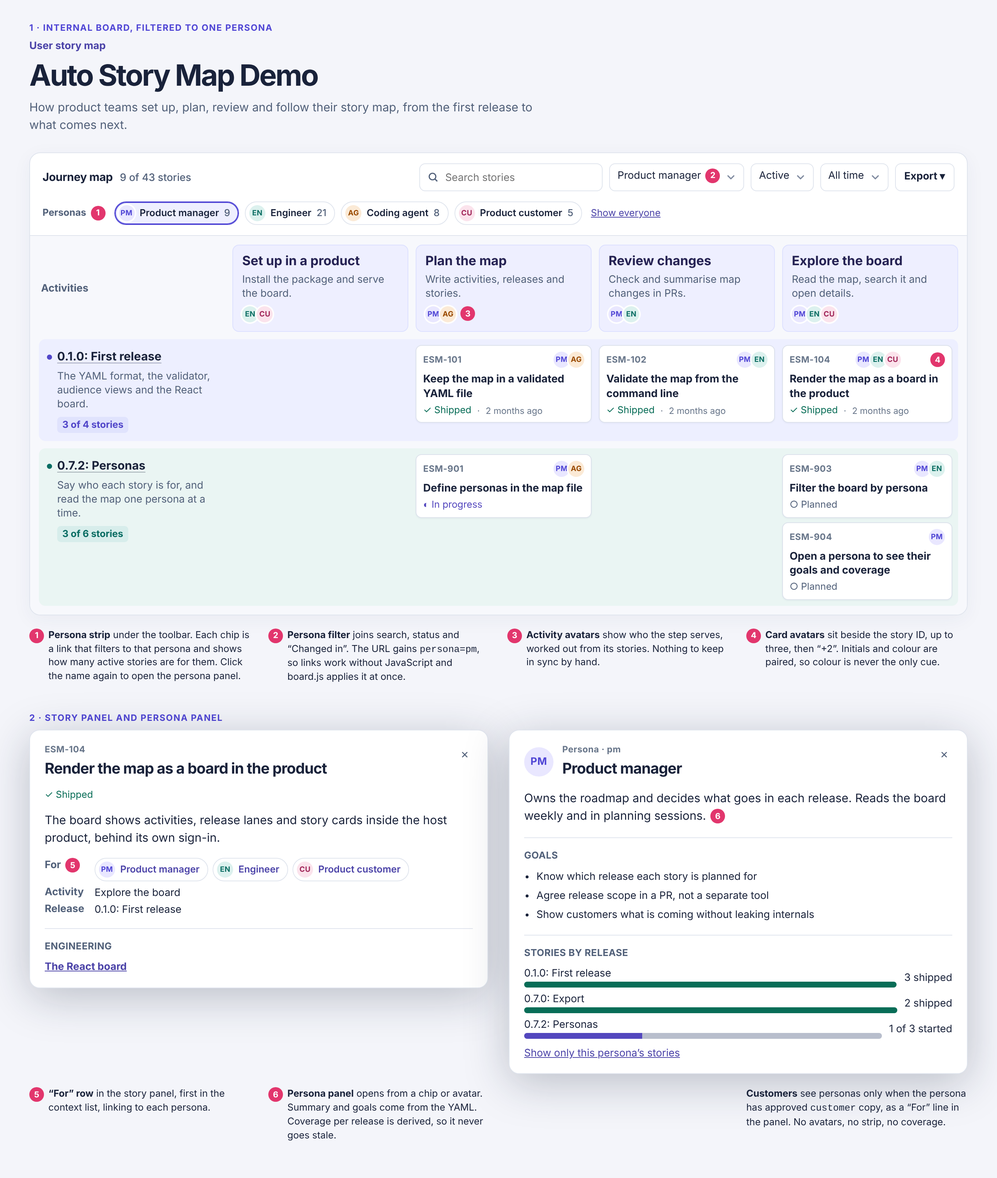
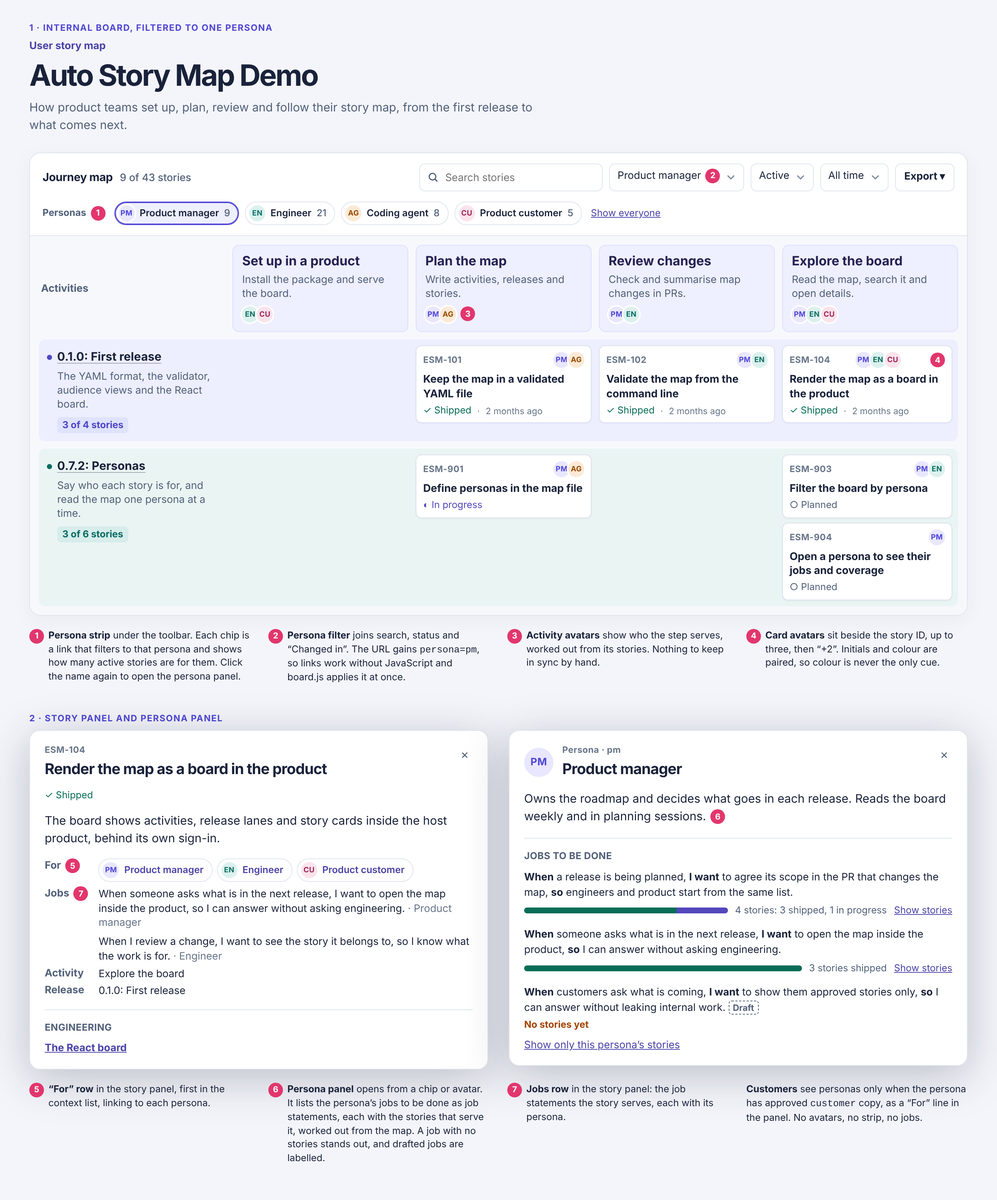
Add structured jobs to be done to the personas plan
Personas gain jobs with IDs and situation, motivation and outcome fields,
and stories name the jobs they serve. The plan adds job checks, a job
filter and per-job coverage in the persona panel, and the mockup and the
0.7.2 stories and release notes follow.

Claude-Session: https://claude.ai/code/session_01Lq2MQToGUNxX2yQmFv46n6

diff --git a/docs/plans/personas-mockup.html b/docs/plans/personas-mockup.html
@@ -51,7 +51,15 @@
   .esm-persona-row { display: flex; flex-wrap: wrap; gap: 6px; }
   .esm-persona-row .esm-persona-chip { min-height: 28px; }
   .esm-persona-head { display: flex; align-items: center; gap: 12px; }
-  .esm-goals { display: grid; gap: 6px; margin: 0; padding-left: 1.2em; line-height: 1.45; }
+  .esm-jobs { display: grid; gap: 14px; margin: 0; padding: 0; list-style: none; }
+  .esm-job { display: grid; gap: 6px; }
+  .esm-job-statement { margin: 0; line-height: 1.45; }
+  .esm-job-statement b { font-weight: 650; }
+  .esm-job-meta { display: flex; flex-wrap: wrap; align-items: center; gap: 4px 10px; color: var(--esm-muted); font-size: .8125rem; }
+  .esm-job-meta .esm-bar { flex: 1 1 120px; }
+  .esm-job-gap { color: var(--esm-status-blocked); font-weight: 650; }
+  .esm-faint { color: var(--esm-faint); }
+  .esm-story-jobs { display: grid; gap: 6px; margin: 0; padding: 0; list-style: none; line-height: 1.4; }
   .esm-persona-releases { display: grid; gap: 6px; margin: 0; padding: 0; list-style: none; }
   .esm-persona-releases li { display: grid; grid-template-columns: 1fr auto; align-items: center; gap: 10px; }
   .esm-bar { display: flex; height: 8px; overflow: hidden; border-radius: 4px; background: var(--esm-hover); }
@@ -124,7 +132,7 @@
             <div class="esm-cell" data-empty></div>
             <div class="esm-cell">
               <button class="esm-card"><span class="esm-card-head"><span class="esm-card-id">ESM-903</span><span class="esm-avatars"><span class="esm-avatar" data-persona="0">PM</span><span class="esm-avatar" data-persona="1">EN</span></span></span><span class="esm-card-title">Filter the board by persona</span><span class="esm-card-meta"><span class="esm-status">○ Planned</span></span></button>
-              <button class="esm-card"><span class="esm-card-head"><span class="esm-card-id">ESM-904</span><span class="esm-avatars"><span class="esm-avatar" data-persona="0">PM</span></span></span><span class="esm-card-title">Open a persona to see their goals and coverage</span><span class="esm-card-meta"><span class="esm-status">○ Planned</span></span></button>
+              <button class="esm-card"><span class="esm-card-head"><span class="esm-card-id">ESM-904</span><span class="esm-avatars"><span class="esm-avatar" data-persona="0">PM</span></span></span><span class="esm-card-title">Open a persona to see their jobs and coverage</span><span class="esm-card-meta"><span class="esm-status">○ Planned</span></span></button>
             </div>
           </div>
         </div>
@@ -154,6 +162,11 @@
             <a class="esm-persona-chip" href="#"><span class="esm-avatar" data-persona="1">EN</span>Engineer</a>
             <a class="esm-persona-chip" href="#"><span class="esm-avatar" data-persona="3">CU</span>Product customer</a>
           </dd>
+          <dt>Jobs<span class="mock-callout">7</span></dt>
+          <dd><ul class="esm-story-jobs">
+            <li>When someone asks what is in the next release, I want to open the map inside the product, so I can answer without asking engineering. <span class="esm-faint">· Product manager</span></li>
+            <li>When I review a change, I want to see the story it belongs to, so I know what the work is for. <span class="esm-faint">· Engineer</span></li>
+          </ul></dd>
           <dt>Activity</dt><dd>Explore the board</dd>
           <dt>Release</dt><dd>0.1.0: First release</dd>
         </dl>
@@ -167,14 +180,20 @@
           <button class="esm-close">✕</button>
         </div>
         <p class="esm-detail-summary">Owns the roadmap and decides what goes in each release. Reads the board weekly and in planning sessions.<span class="mock-callout">6</span></p>
-        <section class="esm-detail-section"><h4>Goals</h4>
-          <ul class="esm-goals"><li>Know which release each story is planned for</li><li>Agree release scope in a PR, not a separate tool</li><li>Show customers what is coming without leaking internals</li></ul>
-        </section>
-        <section class="esm-detail-section"><h4>Stories by release</h4>
-          <ul class="esm-persona-releases">
-            <li><span class="esm-release-label">0.1.0: First release<span class="esm-bar"><span style="width:100%;background:var(--esm-status-shipped)"></span></span></span><span>3 shipped</span></li>
-            <li><span class="esm-release-label">0.7.0: Export<span class="esm-bar"><span style="width:100%;background:var(--esm-status-shipped)"></span></span></span><span>2 shipped</span></li>
-            <li><span class="esm-release-label">0.7.2: Personas<span class="esm-bar"><span style="width:33%;background:var(--esm-status-in-progress)"></span><span style="width:67%;background:var(--esm-status-planned);opacity:.35"></span></span></span><span>1 of 3 started</span></li>
+        <section class="esm-detail-section"><h4>Jobs to be done</h4>
+          <ul class="esm-jobs">
+            <li class="esm-job">
+              <p class="esm-job-statement"><b>When</b> a release is being planned, <b>I want</b> to agree its scope in the PR that changes the map, <b>so</b> engineers and product start from the same list.</p>
+              <span class="esm-job-meta"><span class="esm-bar"><span style="width:75%;background:var(--esm-status-shipped)"></span><span style="width:25%;background:var(--esm-status-in-progress)"></span></span><span>4 stories: 3 shipped, 1 in progress</span><a href="#">Show stories</a></span>
+            </li>
+            <li class="esm-job">
+              <p class="esm-job-statement"><b>When</b> someone asks what is in the next release, <b>I want</b> to open the map inside the product, <b>so</b> I can answer without asking engineering.</p>
+              <span class="esm-job-meta"><span class="esm-bar"><span style="width:100%;background:var(--esm-status-shipped)"></span></span><span>3 stories shipped</span><a href="#">Show stories</a></span>
+            </li>
+            <li class="esm-job">
+              <p class="esm-job-statement"><b>When</b> customers ask what is coming, <b>I want</b> to show them approved stories only, <b>so</b> I can answer without leaking internal work. <span class="esm-draft">Draft</span></p>
+              <span class="esm-job-meta"><span class="esm-job-gap">No stories yet</span></span>
+            </li>
           </ul>
           <p class="esm-release-hidden"><a href="#">Show only this persona’s stories</a></p>
         </section>
@@ -183,9 +202,9 @@
   </div>
   <ol class="mock-legend">
     <li><span class="mock-callout">5</span><span><strong>“For” row</strong> in the story panel, first in the context list, linking to each persona.</span></li>
-    <li><span class="mock-callout">6</span><span><strong>Persona panel</strong> opens from a chip or avatar. Summary and goals come from the YAML. Coverage per release is derived, so it never goes stale.</span></li>
-    <li></li>
-    <li><span><strong>Customers</strong> see personas only when the persona has approved <code>customer</code> copy, as a “For” line in the panel. No avatars, no strip, no coverage.</span></li>
+    <li><span class="mock-callout">6</span><span><strong>Persona panel</strong> opens from a chip or avatar. It lists the persona’s jobs to be done as job statements, each with the stories that serve it, worked out from the map. A job with no stories stands out, and drafted jobs are labelled.</span></li>
+    <li><span class="mock-callout">7</span><span><strong>Jobs row</strong> in the story panel: the job statements the story serves, each with its persona.</span></li>
+    <li><span><strong>Customers</strong> see personas only when the persona has approved <code>customer</code> copy, as a “For” line in the panel. No avatars, no strip, no jobs.</span></li>
   </ol>
 </div>
 

diff --git a/docs/plans/personas.md b/docs/plans/personas.md
@@ -2,18 +2,18 @@
 
 Status: proposed. The stories are ESM-901 to ESM-906, in the **0.7.2: Personas** release of the map. The release's notes and expected impact are in the map.
 
-A story map answers “what do we build, in what order”. It does not yet say **who each story is for**. Personas add that: the map file names the people the product serves, each story says which of them it helps, and the board lets viewers read the map one persona at a time.
+A story map answers “what do we build, in what order”. It does not yet say **who each story is for**, or **which need it meets**. Personas and their jobs to be done add that: the map file names the people the product serves and the jobs each of them is trying to get done, each story says which jobs it serves, and the board lets viewers read the map one persona at a time and see which jobs have no stories.
 
 Items are numbered in the order they should be built, and each section uses the same number:
 
 1. [Define personas in the map file](#1-define-personas-in-the-map-file) · ESM-901
 2. [Show who a story is for](#2-show-who-a-story-is-for) · ESM-902
 3. [Filter the board by persona](#3-filter-the-board-by-persona) · ESM-903
-4. [Open a persona to see goals and coverage](#4-open-a-persona-to-see-goals-and-coverage) · ESM-904
+4. [Open a persona to see jobs and coverage](#4-open-a-persona-to-see-jobs-and-coverage) · ESM-904
 5. [Share approved personas with customers](#5-share-approved-personas-with-customers) · ESM-905
 6. [Include personas in exports](#6-include-personas-in-exports) · ESM-906
 
-All stories are internal. Item 5 changes what customers can see, but only for personas whose customer copy has been approved, as for stories today.
+All stories are internal. Item 5 changes what customers can see, but only for personas whose customer copy has been approved, as for stories today. Jobs are internal only.
 
 ## UI mockup
 
@@ -28,7 +28,8 @@ What it shows:
 3. **Activity avatars**: who each step of the journey serves, derived from the stories under it.
 4. **Card avatars** beside the story ID: up to three, then “+N”.
 5. **“For” row** in the story panel, first in the context list.
-6. **Persona panel**: summary and goals from the YAML, and coverage per release worked out from the stories.
+6. **Persona panel**: the summary and the persona's jobs to be done, each with the stories that serve it, worked out from the map. A job with no stories stands out, and drafted jobs are labelled **Draft**.
+7. **Jobs row** in the story panel: the job statements the story serves, each with its persona.
 
 When a persona is chosen, releases with no matching stories are hidden, as the other filters do now. A rejected alternative was to dim non-matching cards instead of hiding them. It keeps the shape of the map, but on large maps the persona's stories are hard to find among the dimmed ones. It could come back as a “Highlight” option later.
 
@@ -39,9 +40,20 @@ personas:
   - id: pm
     title: Product manager
     summary: Owns the roadmap and decides what goes in each release.
-    goals:
-      - Know which release each story is planned for
-      - Agree release scope in a PR, not a separate tool
+    jobs:
+      - id: plan-release
+        situation: a release is being planned
+        motivation: to agree its scope in the PR that changes the map
+        outcome: engineers and product start from the same list
+      - id: answer-whats-next
+        situation: someone asks what is in the next release
+        motivation: to open the map inside the product
+        outcome: I can answer without asking engineering
+      - id: share-roadmap
+        situation: customers ask what is coming
+        motivation: to show them approved stories only
+        outcome: I can answer without leaking internal work
+        draft: true       # drafted by an agent; only a person removes it
     customer:            # optional, approved wording only
       title: Product teams
 stories:
@@ -49,11 +61,18 @@ stories:
     title: Render the map as a board in the product
     activity: explore
     release: v0-1
-    personas: [pm, engineer, customer]
+    personas: [customer]
+    jobs: [answer-whats-next, review-in-context]   # review-in-context is an Engineer job
 ```
 
-- `personas` on the map is optional, up to 12 entries. Each has the usual `id`, `title`, `summary` and `customer`, plus optional `goals` (up to 5, each up to 200 characters).
-- `personas` on a story is optional: a list of persona IDs, up to 4, in order of importance. The first is the primary persona.
+ESM-104's personas resolve to Product manager and Engineer, from its jobs, and Product customer, from `personas`.
+
+The board reads each job as a job statement: “**When** a release is being planned, **I want** to agree its scope in the PR that changes the map, **so** engineers and product start from the same list.”
+
+- `personas` on the map is optional, up to 12 entries. Each has the usual `id`, `title`, `summary` and `customer`, plus optional `jobs`.
+- `jobs` on a persona is optional, up to 8 entries. Each job has an `id`, unique across the map, and three required fields of up to 200 characters: `situation` (“When …”), `motivation` (“I want …”) and `outcome` (“so …”). Write each without its lead word, which the board adds. `draft: true` marks a job an agent drafted and nobody has confirmed. Only a person removes it, as for release impact.
+- `jobs` on a story is optional: up to 4 job IDs, in order of importance. A story's personas are the owners of its jobs plus any listed in its own `personas`, so a story that names its jobs does not need to repeat their personas.
+- `personas` on a story is optional: up to 4 persona IDs, for a story that helps a persona but no single job of theirs. The first persona, from either list, is the primary one.
 - Initials come from the title (“Product manager” → PM), and the colour from the persona's position in the list, so neither is stored. A six-colour palette is enough for 12 personas, because initials and colour together tell them apart.
 - Activities and releases get no `personas` field. Activity avatars are derived, so there is nothing to keep in sync.
 
@@ -65,15 +84,19 @@ stories:
 | B. Can a story have several personas | Yes, up to 4, first is primary | One persona per story. Simpler, but forces a choice for shared stories such as search |
 | C. Untagged stories | Allowed. The filter has no “Untagged” option at first, and validate warns only when the map has personas and more than half of the active stories are untagged | Make `personas` required once the map defines any. Too strict for existing maps |
 | D. What a persona filter keeps | Stories tagged with any chosen persona. Several personas can be chosen, like statuses | Primary persona only |
-| E. Persona fields | `id`, `title`, `summary`, `goals`, `customer` | Add `pains`, `quote` or an image. Keep it small until teams ask; images also raise hosting and privacy questions |
+| E. Persona fields | `id`, `title`, `summary`, `jobs`, `customer` | Add `pains`, `quote` or an image. Keep it small until teams ask; images also raise hosting and privacy questions |
 | F. Customer view | Show approved personas as a “For” line in the story panel only | No personas for customers at all. Also fine; item 5 can be dropped without affecting the rest |
 | G. Release | Decided: a new **0.7.2: Personas** release, after the export work | — |
+| H. Jobs to be done | Decided: structured jobs on each persona, with IDs that stories reference, in place of free-text goals | Job statements as free text, which cannot be checked. Jobs as their own list, shared between personas: more to maintain and show, for a case that is rare until teams ask |
+| I. Who writes jobs | Agents may draft jobs from the product's docs, issues and research, marked `draft: true`. A person confirms each by removing `draft` | Only people write jobs. Safer, but slows the first map down |
 
 ### Assumptions to confirm
 
 - **Search matches persona titles** for internal viewers, so searching “agent” finds stories for the Coding agent persona.
 - **Persona counts on chips** count active stories only, like the release counts, and ignore the other filters so the numbers do not jump as you filter.
-- **Removing a persona** that stories still use is an error, like removing an activity. Renaming one keeps its ID.
+- **Removing a persona or job** that stories still use is an error, like removing an activity. Renaming one keeps its ID.
+- **Moving a job to another persona** keeps its ID, so stories follow it without an edit.
+- **Jobs are not shown on cards**, only in the story and persona panels, so cards stay short.
 - **No change to the status history**. A persona change counts as an edit to the story for “last updated”, because the history already compares whole stories.
 
 ## Suggested order
@@ -83,7 +106,7 @@ stories:
 | 1 | Define personas in the map file | M | — |
 | 2 | Show who a story is for | M | 1 |
 | 3 | Filter the board by persona | S | 2 |
-| 4 | Open a persona to see goals and coverage | S | 2 |
+| 4 | Open a persona to see jobs and coverage | M | 2 |
 | 6 | Include personas in exports | S | 1 |
 | 5 | Share approved personas with customers | S | 2 |
 
@@ -95,28 +118,33 @@ Items 1 and 2 can share a PR if the first is small. Every PR follows the reposit
 
 **Change.**
 
-- `src/schema.ts`: add the `persona` object and the optional `personas` list to the map, and `personas` to the story. The lenient schema drops them for older maps, as it does for other fields.
-- Cross-reference checks: duplicate persona IDs, unknown persona IDs on a story, the same persona twice on a story, and a customer-facing persona used on a story that has no customer copy (allowed, but the persona is not shown).
-- Warnings: a persona no story uses, and the untagged-stories rule from decision C.
+- `src/schema.ts`: add the `persona` and `job` objects and the optional `personas` list to the map, and `personas` and `jobs` to the story. The lenient schema drops them for older maps, as it does for other fields.
+- Cross-reference checks: duplicate persona IDs, duplicate job IDs across the map, unknown persona or job IDs on a story, the same persona or job twice on a story, and a customer-facing persona used on a story that has no customer copy (allowed, but the persona is not shown).
+- Warnings:
+  - a persona no story uses, and the untagged-stories rule from decision C;
+  - a job no active story serves, such as “Job share-roadmap (Product manager) has no stories”;
+  - an active story tagged with a persona that has jobs, but serving none of them: it may not match a known need;
+  - a drafted job whose stories have shipped, as for drafted impact.
+- A shared helper resolves a story's personas from its `jobs` and `personas`, so the view, filter and exports agree.
 - `story-map.schema.json` is rebuilt, so editors complete persona IDs.
-- `src/diff.ts`: report added, removed and renamed personas, and persona changes on stories, such as “ESM-104: for Product manager (was Engineer)”. Customer-facing persona copy is called out like other customer copy.
-- `src/init.ts` and `templates/`: the starter map gets one example persona.
-- Dogfood: add personas to this repository's map (Product manager, Engineer, Coding agent, Product customer) and tag existing stories.
+- `src/diff.ts`: report added, removed and renamed personas and jobs, changed job statements, and persona and job changes on stories, such as “ESM-104: serves answer-whats-next (was plan-release)”. Customer-facing persona copy is called out like other customer copy.
+- `src/init.ts` and `templates/`: the starter map gets one example persona with one job.
+- Dogfood: add personas and their jobs to this repository's map (Product manager, Engineer, Coding agent, Product customer) and tag existing stories with the jobs they serve.
 
-**Docs.** A **Personas** section in `docs/story-map.md`, a row in [Where an edit belongs](../story-map.md#where-an-edit-belongs), and a step in the [first-run workflow](../story-map.md#populate-the-first-map): the agent drafts personas from the host product's roles, sign-in roles and docs, keeps them internal, and asks a person to confirm them. `AGENTS.md` gets one sentence: tag new stories with existing persona IDs, and never invent a persona without saying so in the PR.
+**Docs.** A **Personas** section in `docs/story-map.md`, a row in [Where an edit belongs](../story-map.md#where-an-edit-belongs), and a step in the [first-run workflow](../story-map.md#populate-the-first-map): the agent drafts personas from the host product's roles, sign-in roles and docs, and their jobs from docs, issues and research, marks each job `draft: true`, keeps them internal, and asks a person to confirm them. The section explains job statements and how to write each field. `AGENTS.md` gets one sentence: tag new stories with the existing jobs they serve, never invent a persona or job without marking it `draft: true` and saying so in the PR, and never remove `draft` yourself.
 
-**Tests.** Valid and invalid persona maps, the warnings, the diff lines, and a property test that every persona reference survives `parseStoryMap` round trips.
+**Tests.** Valid and invalid persona and job maps, each warning, the diff lines, the resolved personas of a story with jobs, and a property test that every persona and job reference survives `parseStoryMap` round trips.
 
 ## 2. Show who a story is for
 
 **Change.**
 
-- `src/view.ts`: the internal view gains `personas: PersonaLabel[]` (id, title, summary, goals, initials, colour index) and each story card gains `personas: string[]`.
+- `src/view.ts`: the internal view gains `personas: PersonaLabel[]` (id, title, summary, jobs, initials, colour index) and each story card gains `personas: string[]`, resolved from its jobs and personas, and `jobs: string[]`.
 - `src/react.tsx`:
   - `PersonaAvatar` and `PersonaAvatars` components, with the persona title as accessible text (“For Product manager and Coding agent”), so screen readers do not read initials.
   - Card avatars in a new `esm-card-head` row beside the ID.
   - Activity avatars from the union of the personas of the activity's active stories.
-  - A **For** row first in the story panel's context list.
+  - A **For** row first in the story panel's context list, then a **Jobs** row with each job statement and its persona.
 - `styles.css`: `--esm-persona-0` to `--esm-persona-5` with matching backgrounds, in light, dark and auto themes. Check each pair for 4.5:1 contrast.
 - Narrow screens: avatars stay on cards; activity avatars are hidden with the activity row, as now.
 
@@ -126,38 +154,47 @@ Items 1 and 2 can share a PR if the first is small. Every PR follows the reposit
 
 **Change.**
 
-- `src/filter.ts`: `StoryMapFilters.persona?: readonly string[]`, read from a repeated `persona` parameter. Unknown IDs are ignored. `filter.persona` is set on the view when it narrows anything.
-- Search also matches persona titles (internal only).
+- `src/filter.ts`: `StoryMapFilters.persona?: readonly string[]` and `job?: readonly string[]`, read from repeated `persona` and `job` parameters. Unknown IDs are ignored. `filter.persona` and `filter.job` are set on the view when they narrow anything. The job filter has no toolbar control: the persona panel's **Show stories** links set it, and the filter summary names the job with a link to clear it.
+- Search also matches persona titles and job statements (internal only).
 - `src/react.tsx`: the persona strip under the toolbar and a persona menu in the toolbar, built like the status menu (`<details>` with checkboxes). The strip is hidden when the map has no personas.
 - `src/board.js`: apply persona changes as they happen, like the other filters.
 - Persona chips keep the other parameters, through `preservedParams`, like the other filter links.
 
-**Tests.** URL reading, combined filters, a persona with no stories, and that customers' persona parameters only match customer-facing personas.
+**Tests.** URL reading, combined filters, a persona or job with no stories, that customers' persona parameters only match customer-facing personas, and that customers' job parameters are ignored.
 
-## 4. Open a persona to see goals and coverage
+## 4. Open a persona to see jobs and coverage
 
-**Change.** A `PersonaDetail` popover, opened from a chip, an avatar or the story panel's **For** row, using the same popover pattern as `ReleaseDetail`. It shows the summary, goals and one row per release with that persona's stories by status, and a link that applies the persona filter. Coverage uses the unfiltered view so it does not change with filters.
+**Change.** A `PersonaDetail` popover, opened from a chip, an avatar or the story panel's **For** row, using the same popover pattern as `ReleaseDetail`. It shows:
 
-**Tests.** Counts per release, releases with no stories for the persona are left out, and the panel works without JavaScript.
+- the summary;
+- **Jobs to be done**: each job statement, a **Draft** label on drafted jobs, a bar and count of the stories that serve it by status, and a **Show stories** link that applies the job filter. A job with no active stories says **No stories yet**, which is the gap the 0.7.2 impact asks teams to close;
+- a link that applies the persona filter.
+
+Coverage uses the unfiltered view so it does not change with filters.
+
+**Tests.** Counts per job, cut and blocked stories left out of the bar, the no-stories state, the draft label, and that the panel works without JavaScript.
 
 ## 5. Share approved personas with customers
 
 **Change.** The customer projection keeps only personas with `customer` copy that at least one published story uses, renumbered like activities (`persona-1`, …) so internal IDs never leak. Customer cards show no avatars; the story panel shows a **For** line with the customer titles. The persona filter is offered to customers only when two or more personas are visible.
 
-**Tests.** Internal-only personas never appear in the customer view or its JSON, IDs are replaced, and a story tagged only with internal personas shows no **For** line.
+The customer view never includes jobs, even for customer-facing personas. A story whose personas come only from its jobs still gets a **For** line when those personas are customer-facing.
+
+**Tests.** Internal-only personas and all jobs never appear in the customer view or its JSON, IDs are replaced, and a story tagged only with internal personas shows no **For** line.
 
 ## 6. Include personas in exports
 
 **Change.**
 
-- CSV: a `Personas` column with persona titles joined by “; ”.
-- JSON for agents: the map's `personas` and each story's `personas`, so an agent can spot journeys with no stories for a persona.
-- Visio: a `Personas` field in each card's shape data, so Lucidchart can filter by it. No avatars on the exported cards for now.
+- CSV: `Personas` and `Jobs` columns, with persona titles and job IDs joined by “; ”.
+- JSON for agents: the map's `personas` with their jobs and statements, and each story's `personas` and `jobs`, so an agent can find jobs with no stories and stories that serve no job, and suggest work for them.
+- Visio: `Personas` and `Jobs` fields in each card's shape data, so Lucidchart can filter by them. No avatars on the exported cards for now.
 
-**Tests.** Each export with and without personas; CSV escaping of persona titles.
+**Tests.** Each export with and without personas and jobs; CSV escaping of persona titles.
 
 ## Later
 
 - **Persona swimlanes**: an option to group rows by persona instead of release, for discovery workshops.
-- **Gaps**: flag activities where a persona has no planned stories, for the scheduled map audit.
+- **Gaps in the audit**: the scheduled map audit lists jobs with no planned stories and proposes stories for them.
+- **Job outcomes**: record whether a shipped story got the job done, alongside release impact.
 - **Highlight mode**: dim rather than hide stories for other personas.
